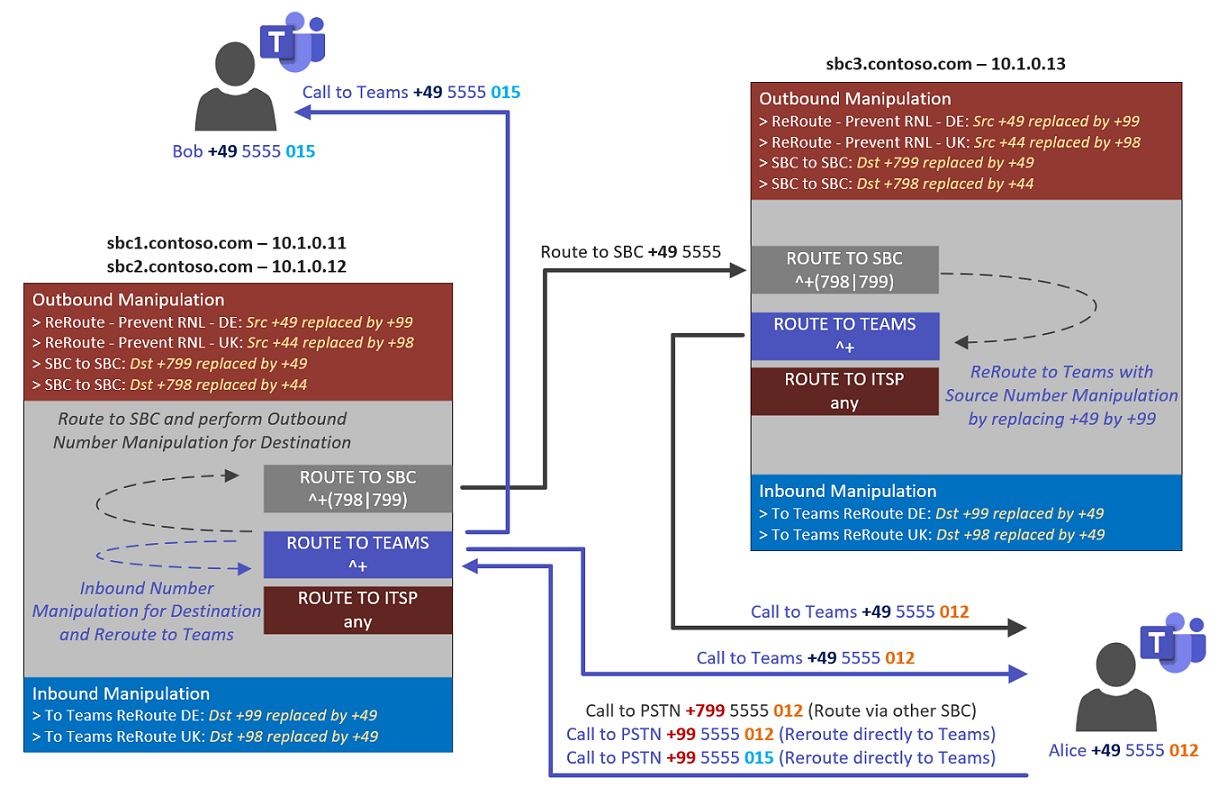
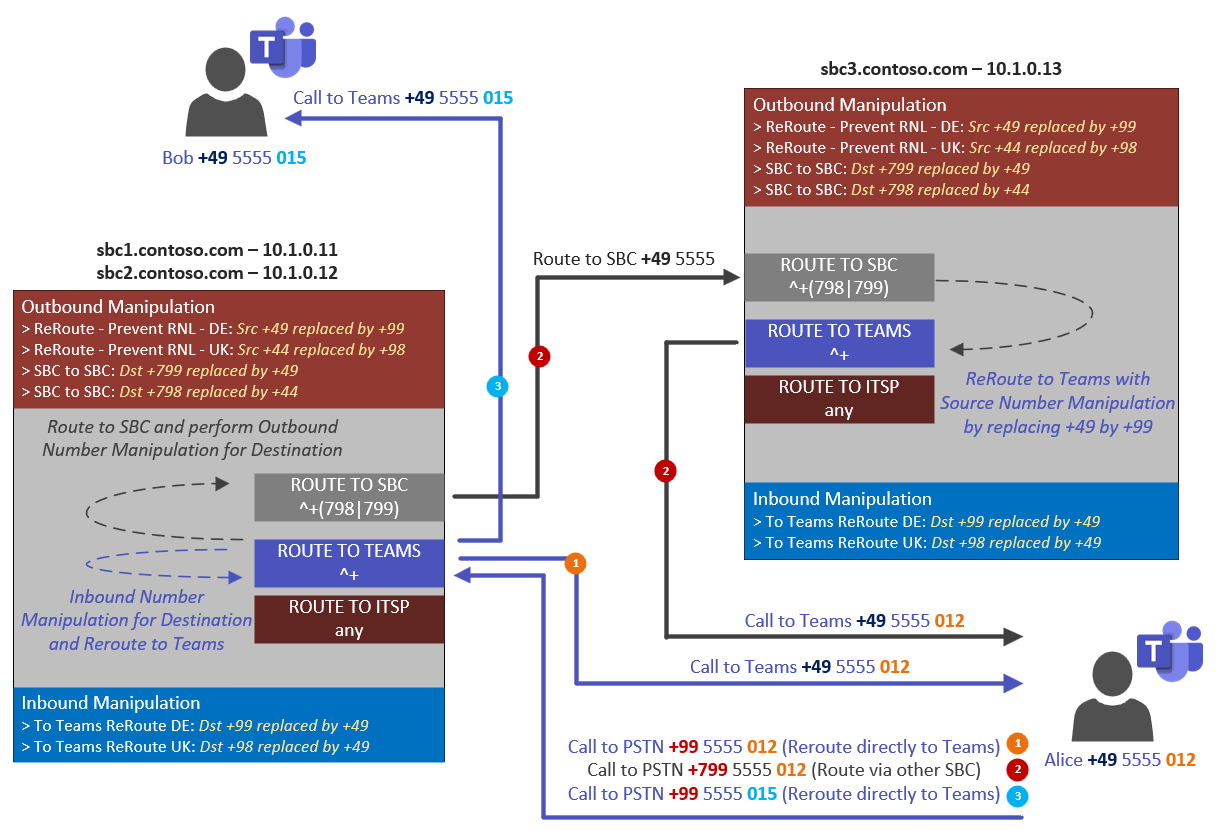
call scenarios updated

diff --git a/README.md b/README.md
@@ -20,7 +20,9 @@
 This guide will help for setting up a self-paced Teams Direct Routing Lab in Azure by using the given script
 > <https://docs.microsoft.com/en-us/microsoftteams/direct-routing-landing-page/>
 
-The main idea of this setup is to use Direct Routing **without going for real/public SIP Trunk (Telco) and PSTN connectivity**, instead we make use of number manipulation and re-routing logic (looping). In fact, we do route calls from Teams to the SBC and then looping/routing them back to Teams. The key is to avoid RNL (Reverse Number Lookup) when dialing numbers - this is where number manipulation comes into place.
+The main idea of this setup is to use Direct Routing **without going for real/public SIP Trunk (Telco) and PSTN connectivity**, instead we make use of number manipulation and re-routing logic (looping). 
+
+In fact, we do route calls from Teams to the SBC and then looping/routing them back to Teams. The key is to avoid RNL (Reverse Number Lookup) when dialing numbers - this is where number manipulation comes into place.
 
 ## 2 Prerequisites
 
@@ -142,20 +144,20 @@ Typically, I am going for `+99 to force PSTN Call and to avoid RNL matching` –
 
 The above picture shows the following 3 call scenarios:
 
-> `Call to PSTN by dialing +99 5555 012 (Call to yourself -> Alice to Alice)`
+> `1 - Call to PSTN by dialing +99 5555 012 (Call to yourself -> Alice to Alice)`
 
 - Due to prefix +99 we don’t have RNL match and so the call is proper routed to SBC side
 - The SBC is then performing "Inbound Number Manipulation" for the Destination Number, in fact replacing +99 by +49
 - Then the call is routed to Teams and before leaving SBC the Source Number is manipulated by replacing +49 by +99. This will prevent RNL on Teams side again and so we are not getting confused when receiving a call from yourself, as well providing us the possibility to simply call back as the number is show with +99 prefix.
 
-> `Call to PSTN by dialing +799 5555 012 (Call to yourself -> Alice to Alice)`
+> `2 - Call to PSTN by dialing +799 5555 012 (Call to yourself via other SBC -> Alice to Alice)`
 
 - Due to prefix +799 we don’t have RNL match and so the call is again proper routed to SBC side
 - The SBC is not performing "Inbound Number Manipulation" for the Destination Number as we don’t have a match for +799
 - The call then is then routed to another SBC (in our case to sbc3) and before leaving SBC the Destination Number is manipulated by replacing +799 by +49.
 - The call then comes in on SBC3 which is simply routing the call back to Teams, but before that doing again "Outbound Manipulation" for the Source Number to avoid again RNL on Teams side.
 
-> `Call to PSTN by dialing +99 5555 015 (Call to yourself -> Alice to Bob)`
+> `3 - Call to PSTN by dialing +99 5555 015 (Call to Bob -> Alice to Bob)`
 
 - Due to prefix +99 we don’t have RNL match and so the call is proper routed to SBC side
 - The SBC is then performing "Inbound Number Manipulation" for the Destination Number, in fact replacing +99 by +49
